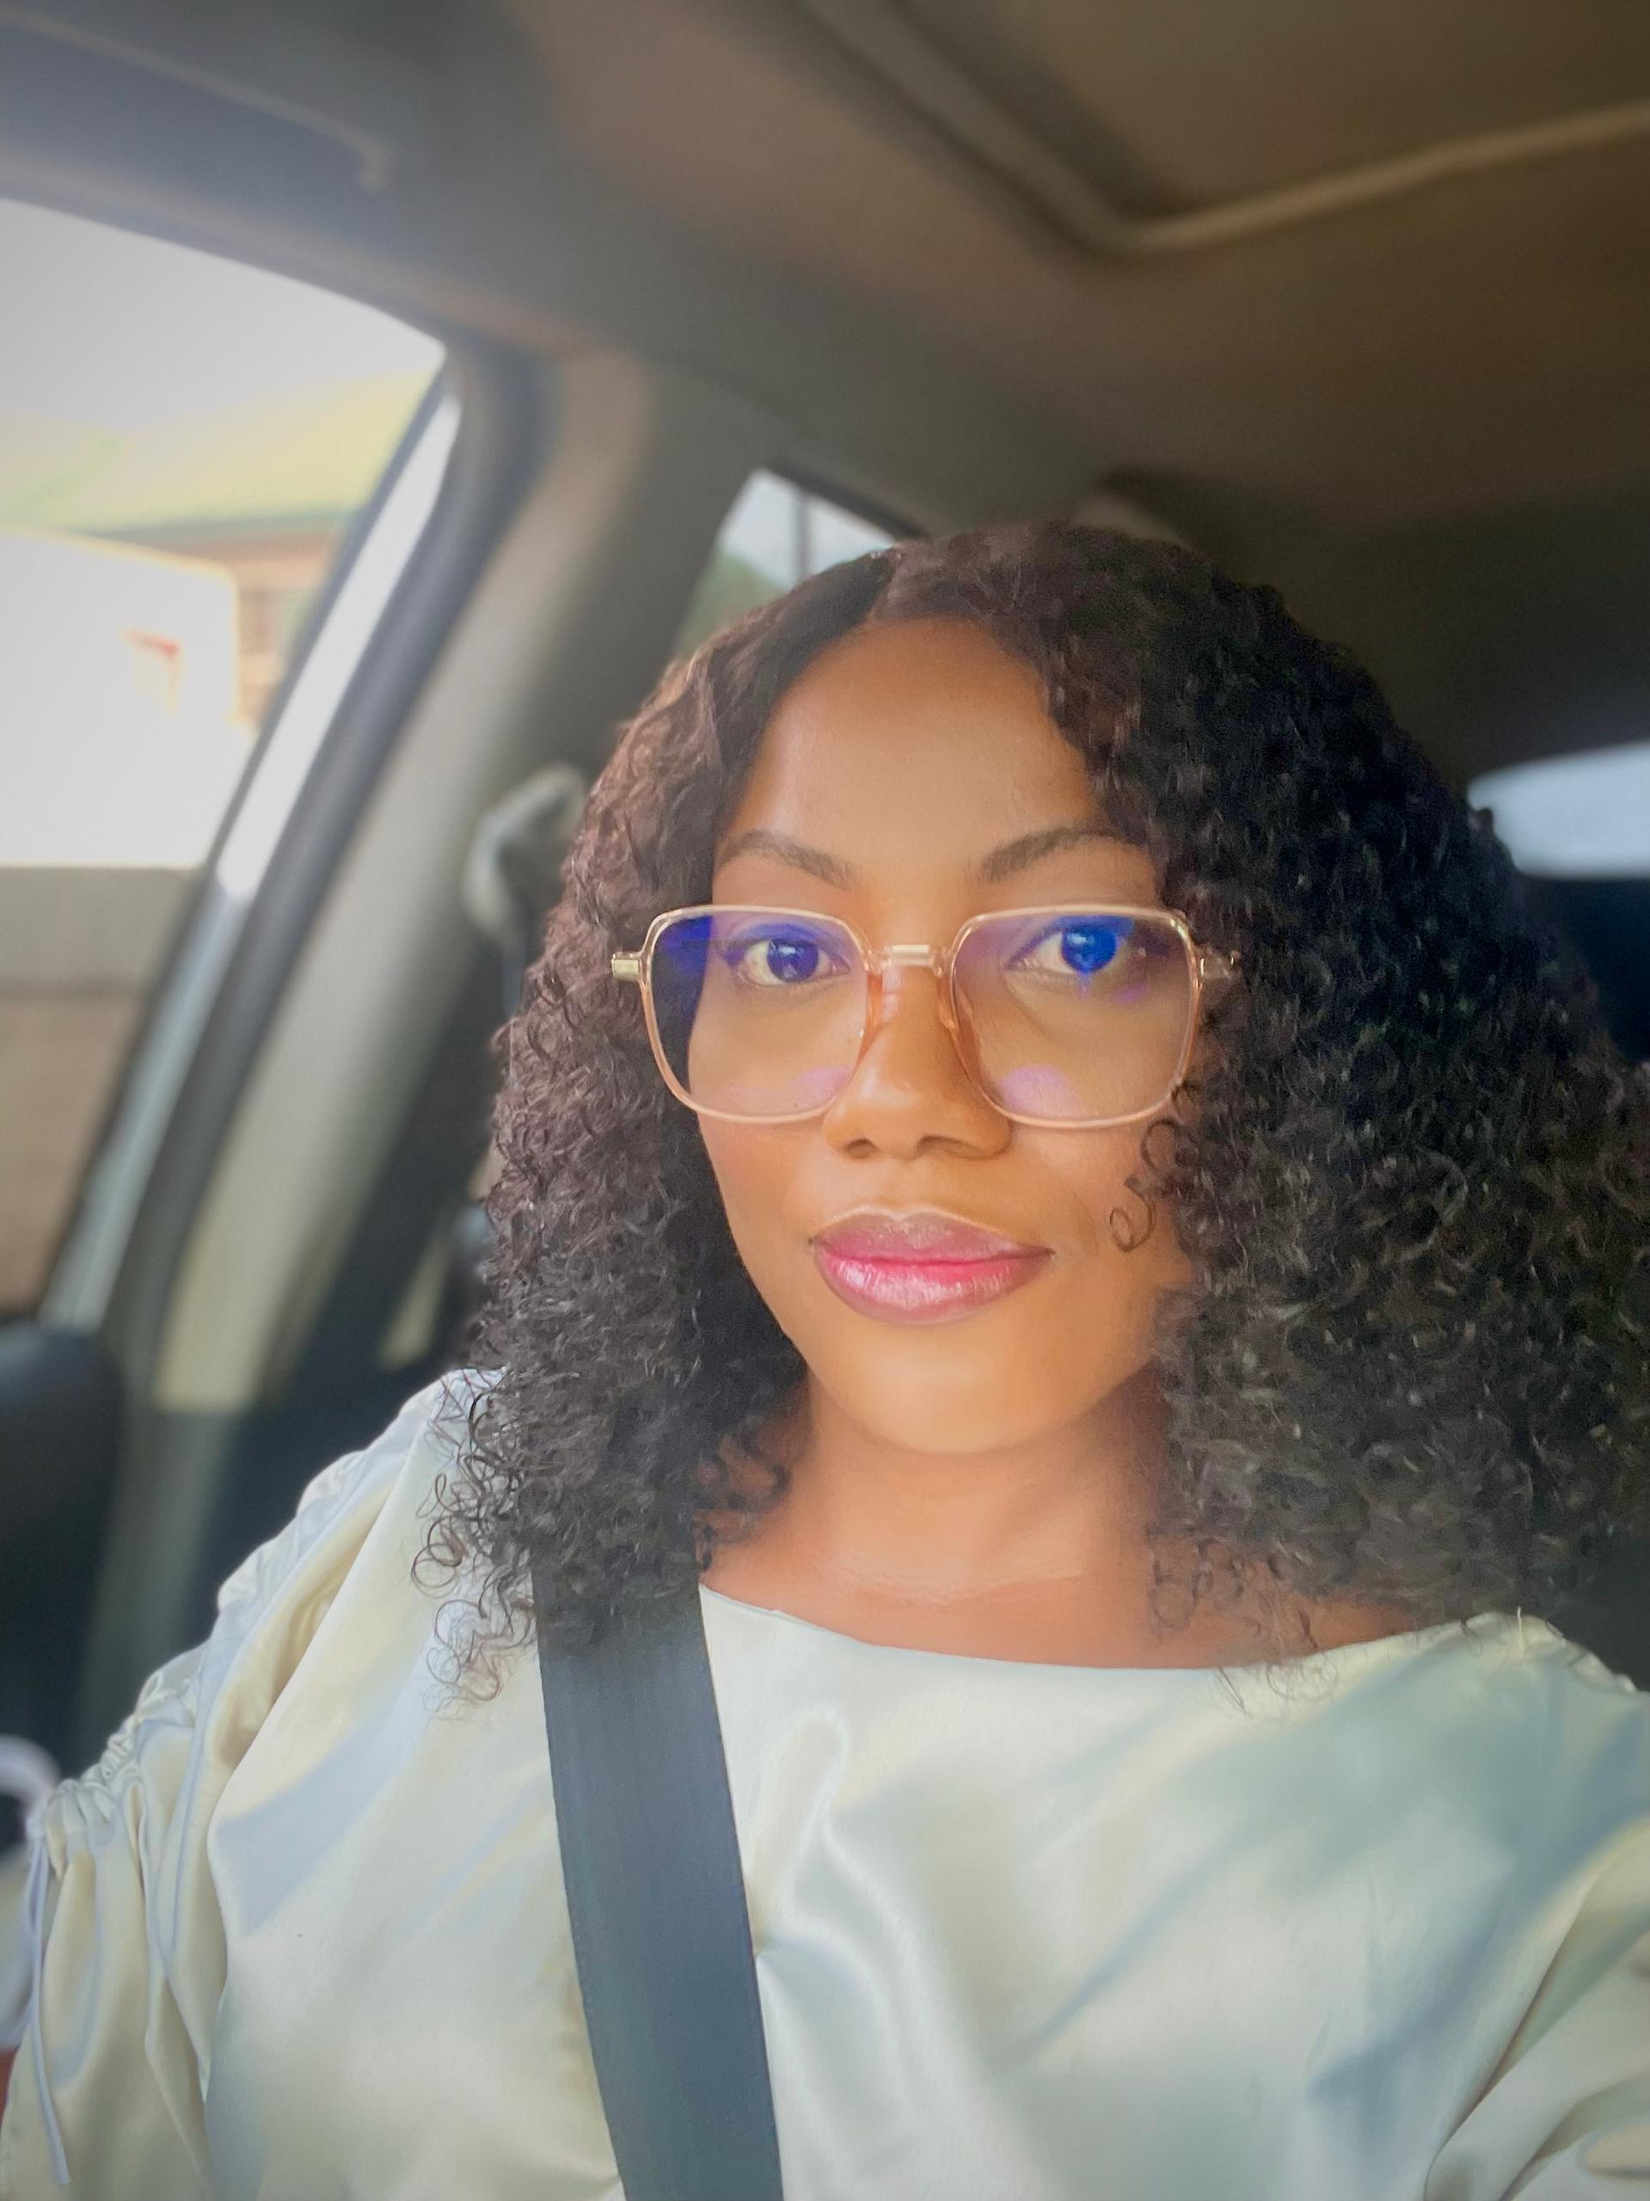
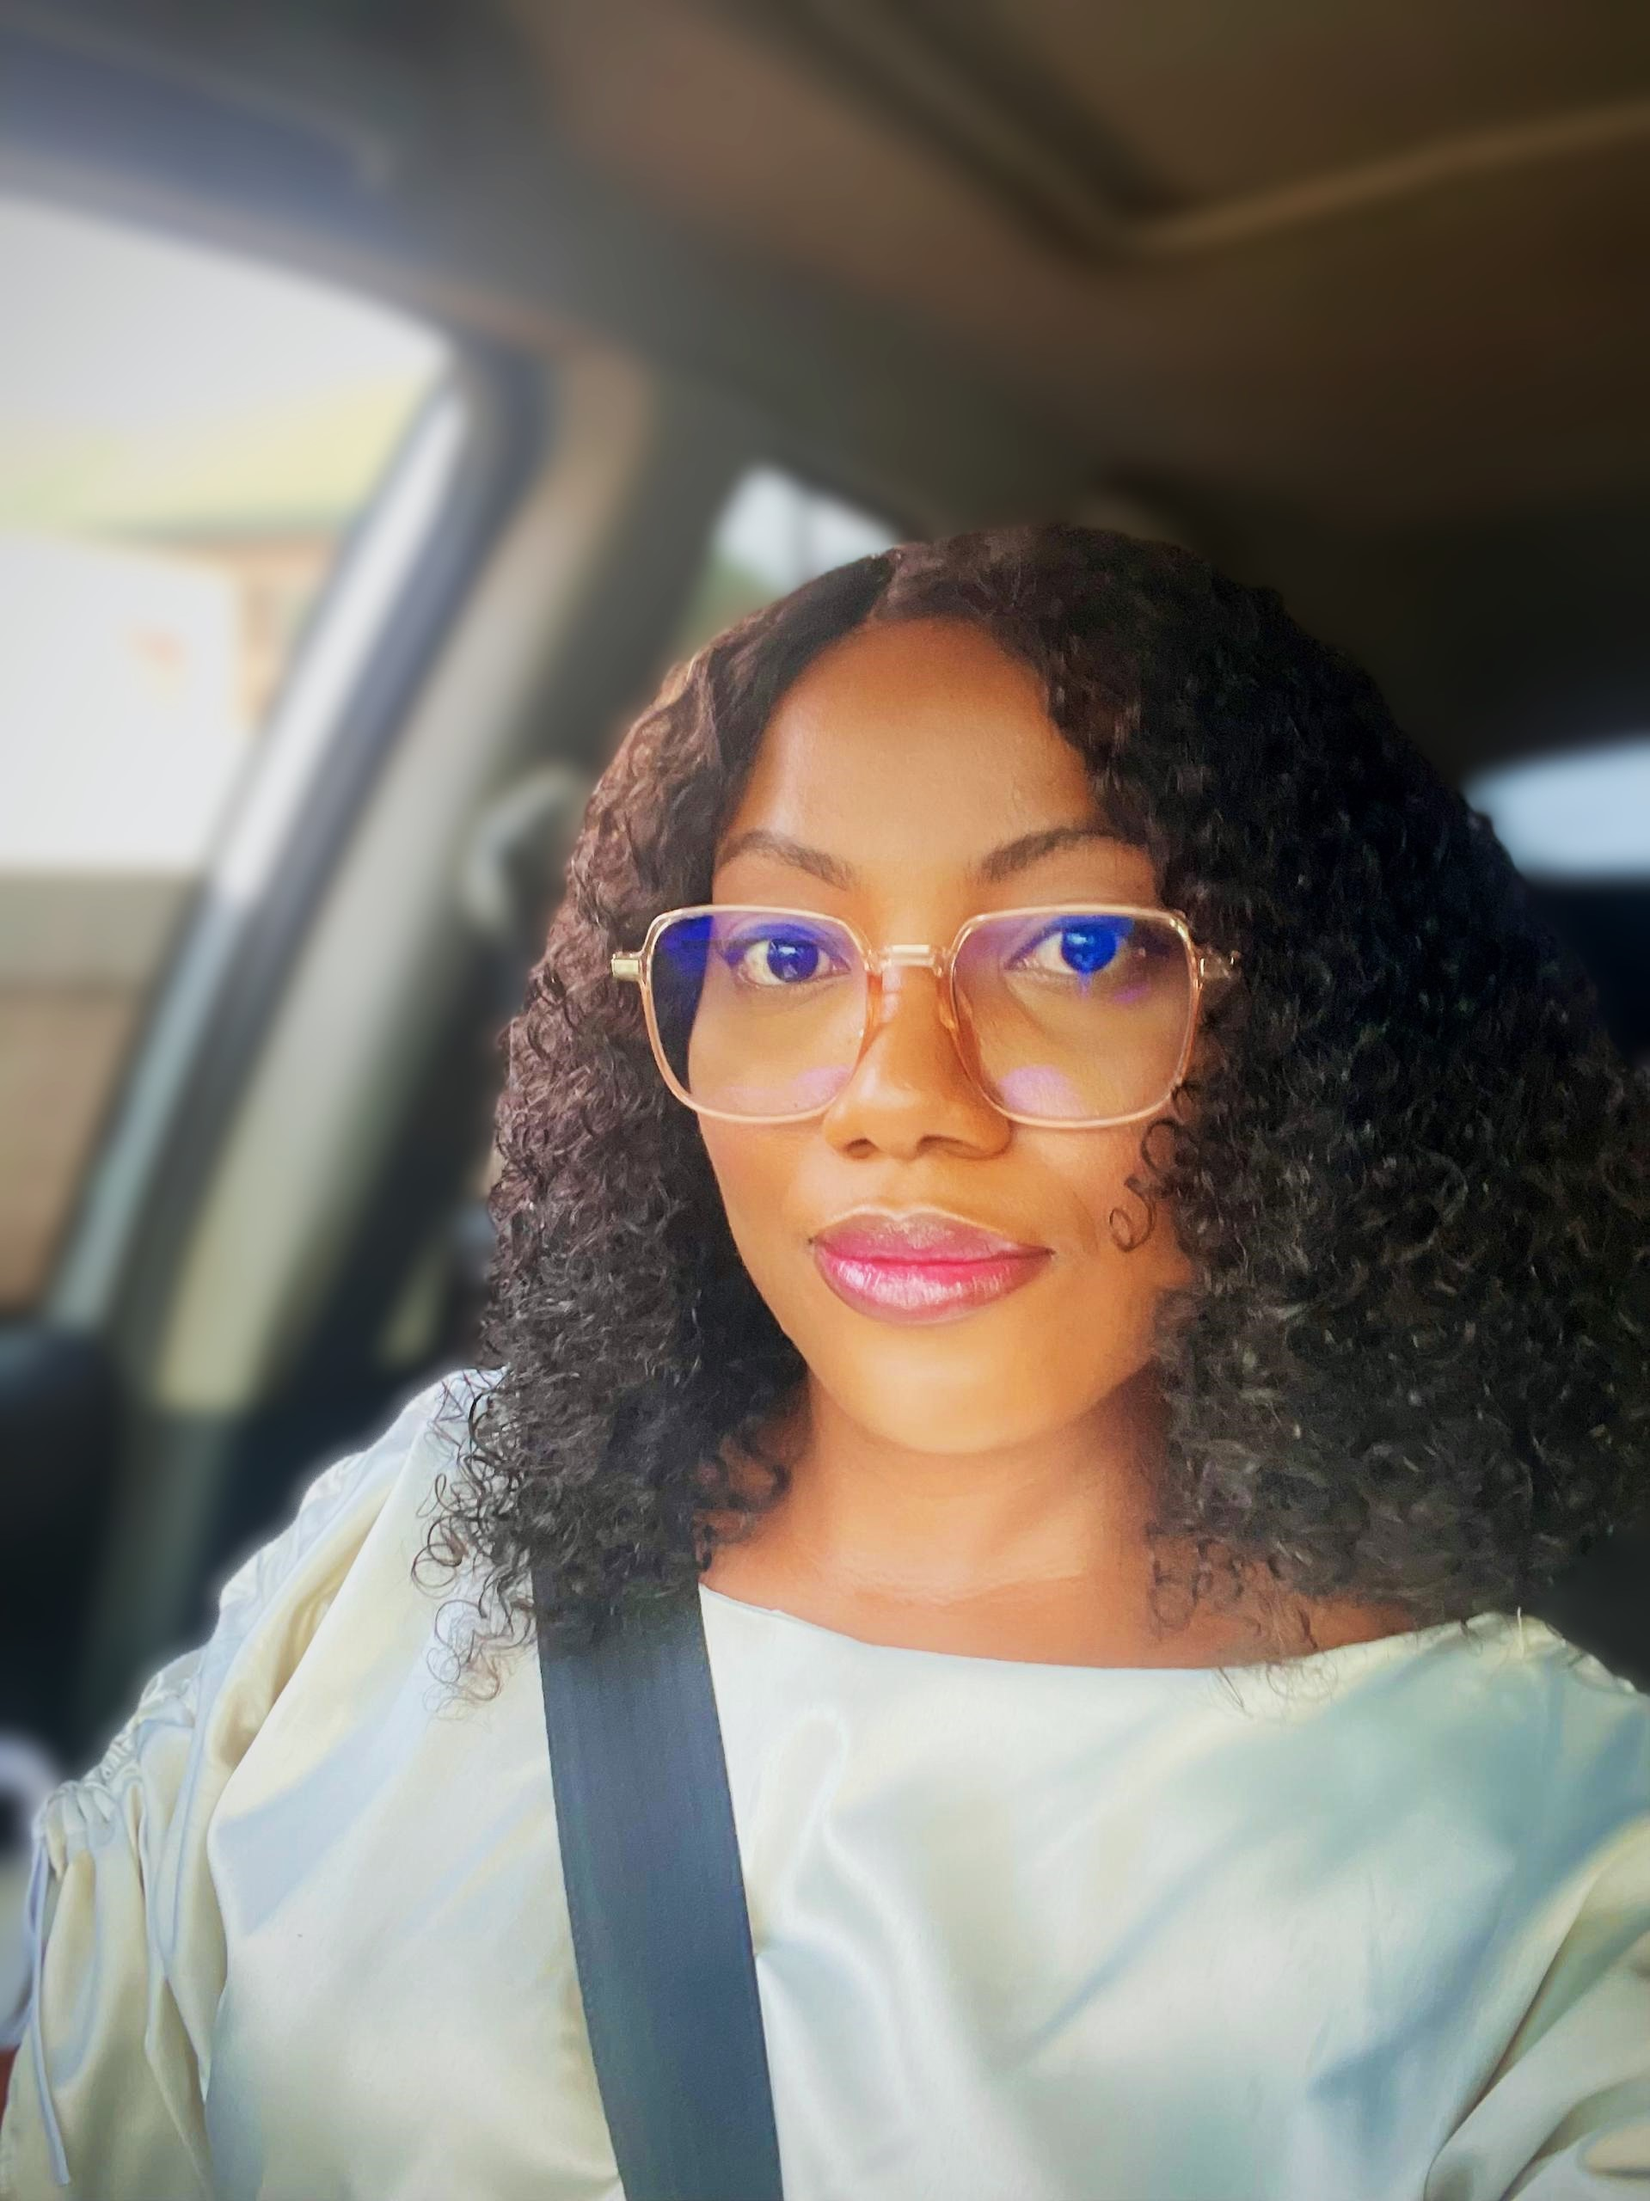
slight necessary adjustments

diff --git a/app/api/upload/route.ts b/app/api/upload/route.ts
@@ -1,6 +1,6 @@
 import { NextRequest, NextResponse } from "next/server";
 import { adminStorage, adminAuth } from "@/lib/firebase-admin";
-import { ImageProcessor } from "@/lib/imageProcessor";
+// import { ImageProcessor } from "@/lib/imageProcessor"; // Temporarily disabled for deployment
 
 interface UploadResponse {
   success: boolean;
@@ -76,42 +76,9 @@ export async function POST(request: NextRequest) {
     let finalSize = originalSize;
     let isOptimized = false;
 
-    // Check if it's an image and should be optimized
-    const isImage = file.type.startsWith("image/");
-
-    if (isImage && optimize) {
-      try {
-        // Validate image first
-        const validation = await ImageProcessor.validateFile(buffer);
-        if (!validation.isValid) {
-          return NextResponse.json(
-            { error: validation.error },
-            { status: 400 }
-          );
-        }
-
-        // Process the main image
-        const processed = await ImageProcessor.processImage(buffer, {
-          width: maxWidth,
-          height: maxHeight,
-          quality: quality,
-          format: "webp", // Convert to WebP for better compression
-          maintainAspectRatio: true,
-        });
-
-        finalBuffer = Buffer.from(processed.buffer);
-        finalContentType = processed.contentType;
-        finalSize = processed.size;
-        isOptimized = true;
-
-        console.log(
-          `Image optimized: ${originalSize} -> ${finalSize} bytes (${Math.round((1 - finalSize / originalSize) * 100)}% reduction)`
-        );
-      } catch (error) {
-        console.error("Image optimization failed:", error);
-        // Fall back to original file if optimization fails
-      }
-    }
+    // Image processing temporarily disabled for deployment compatibility
+    // const isImage = file.type.startsWith("image/");
+    // Image optimization will be re-enabled once deployment compatibility is resolved
 
     // Main file upload
     const extension = isOptimized ? "webp" : file.name.split(".").pop();
@@ -143,52 +110,7 @@ export async function POST(request: NextRequest) {
       optimized: isOptimized,
     };
 
-    // Create image variants if requested
-    if (isImage && createVariants) {
-      try {
-        const variants = await ImageProcessor.createImageVariants(
-          buffer,
-          cleanName
-        );
-        const uploadedVariants: {
-          [key: string]: { url: string; path: string; size: number };
-        } = {};
-
-        for (const [variantName, variantData] of Object.entries(variants)) {
-          const variantPath = `${folder}/variants/${timestamp}-${randomId}-${variantData.fileName}`;
-          const variantFile = bucket.file(variantPath);
-
-          await variantFile.save(Buffer.from(variantData.buffer), {
-            metadata: {
-              contentType: variantData.contentType,
-              metadata: {
-                originalName: file.name,
-                variant: variantName,
-                uploadedAt: new Date().toISOString(),
-                dimensions: JSON.stringify(variantData.dimensions),
-              },
-            },
-          });
-
-          await variantFile.makePublic();
-          const variantUrl = `https://storage.googleapis.com/${bucket.name}/${variantPath}`;
-
-          uploadedVariants[variantName] = {
-            url: variantUrl,
-            path: variantPath,
-            size: variantData.size,
-          };
-        }
-
-        response.variants = uploadedVariants;
-        console.log(
-          `Created ${Object.keys(uploadedVariants).length} image variants`
-        );
-      } catch (error) {
-        console.error("Variant creation failed:", error);
-        // Continue without variants if creation fails
-      }
-    }
+    // Image variants creation temporarily disabled for deployment compatibility
 
     return NextResponse.json(response);
   } catch (error) {
